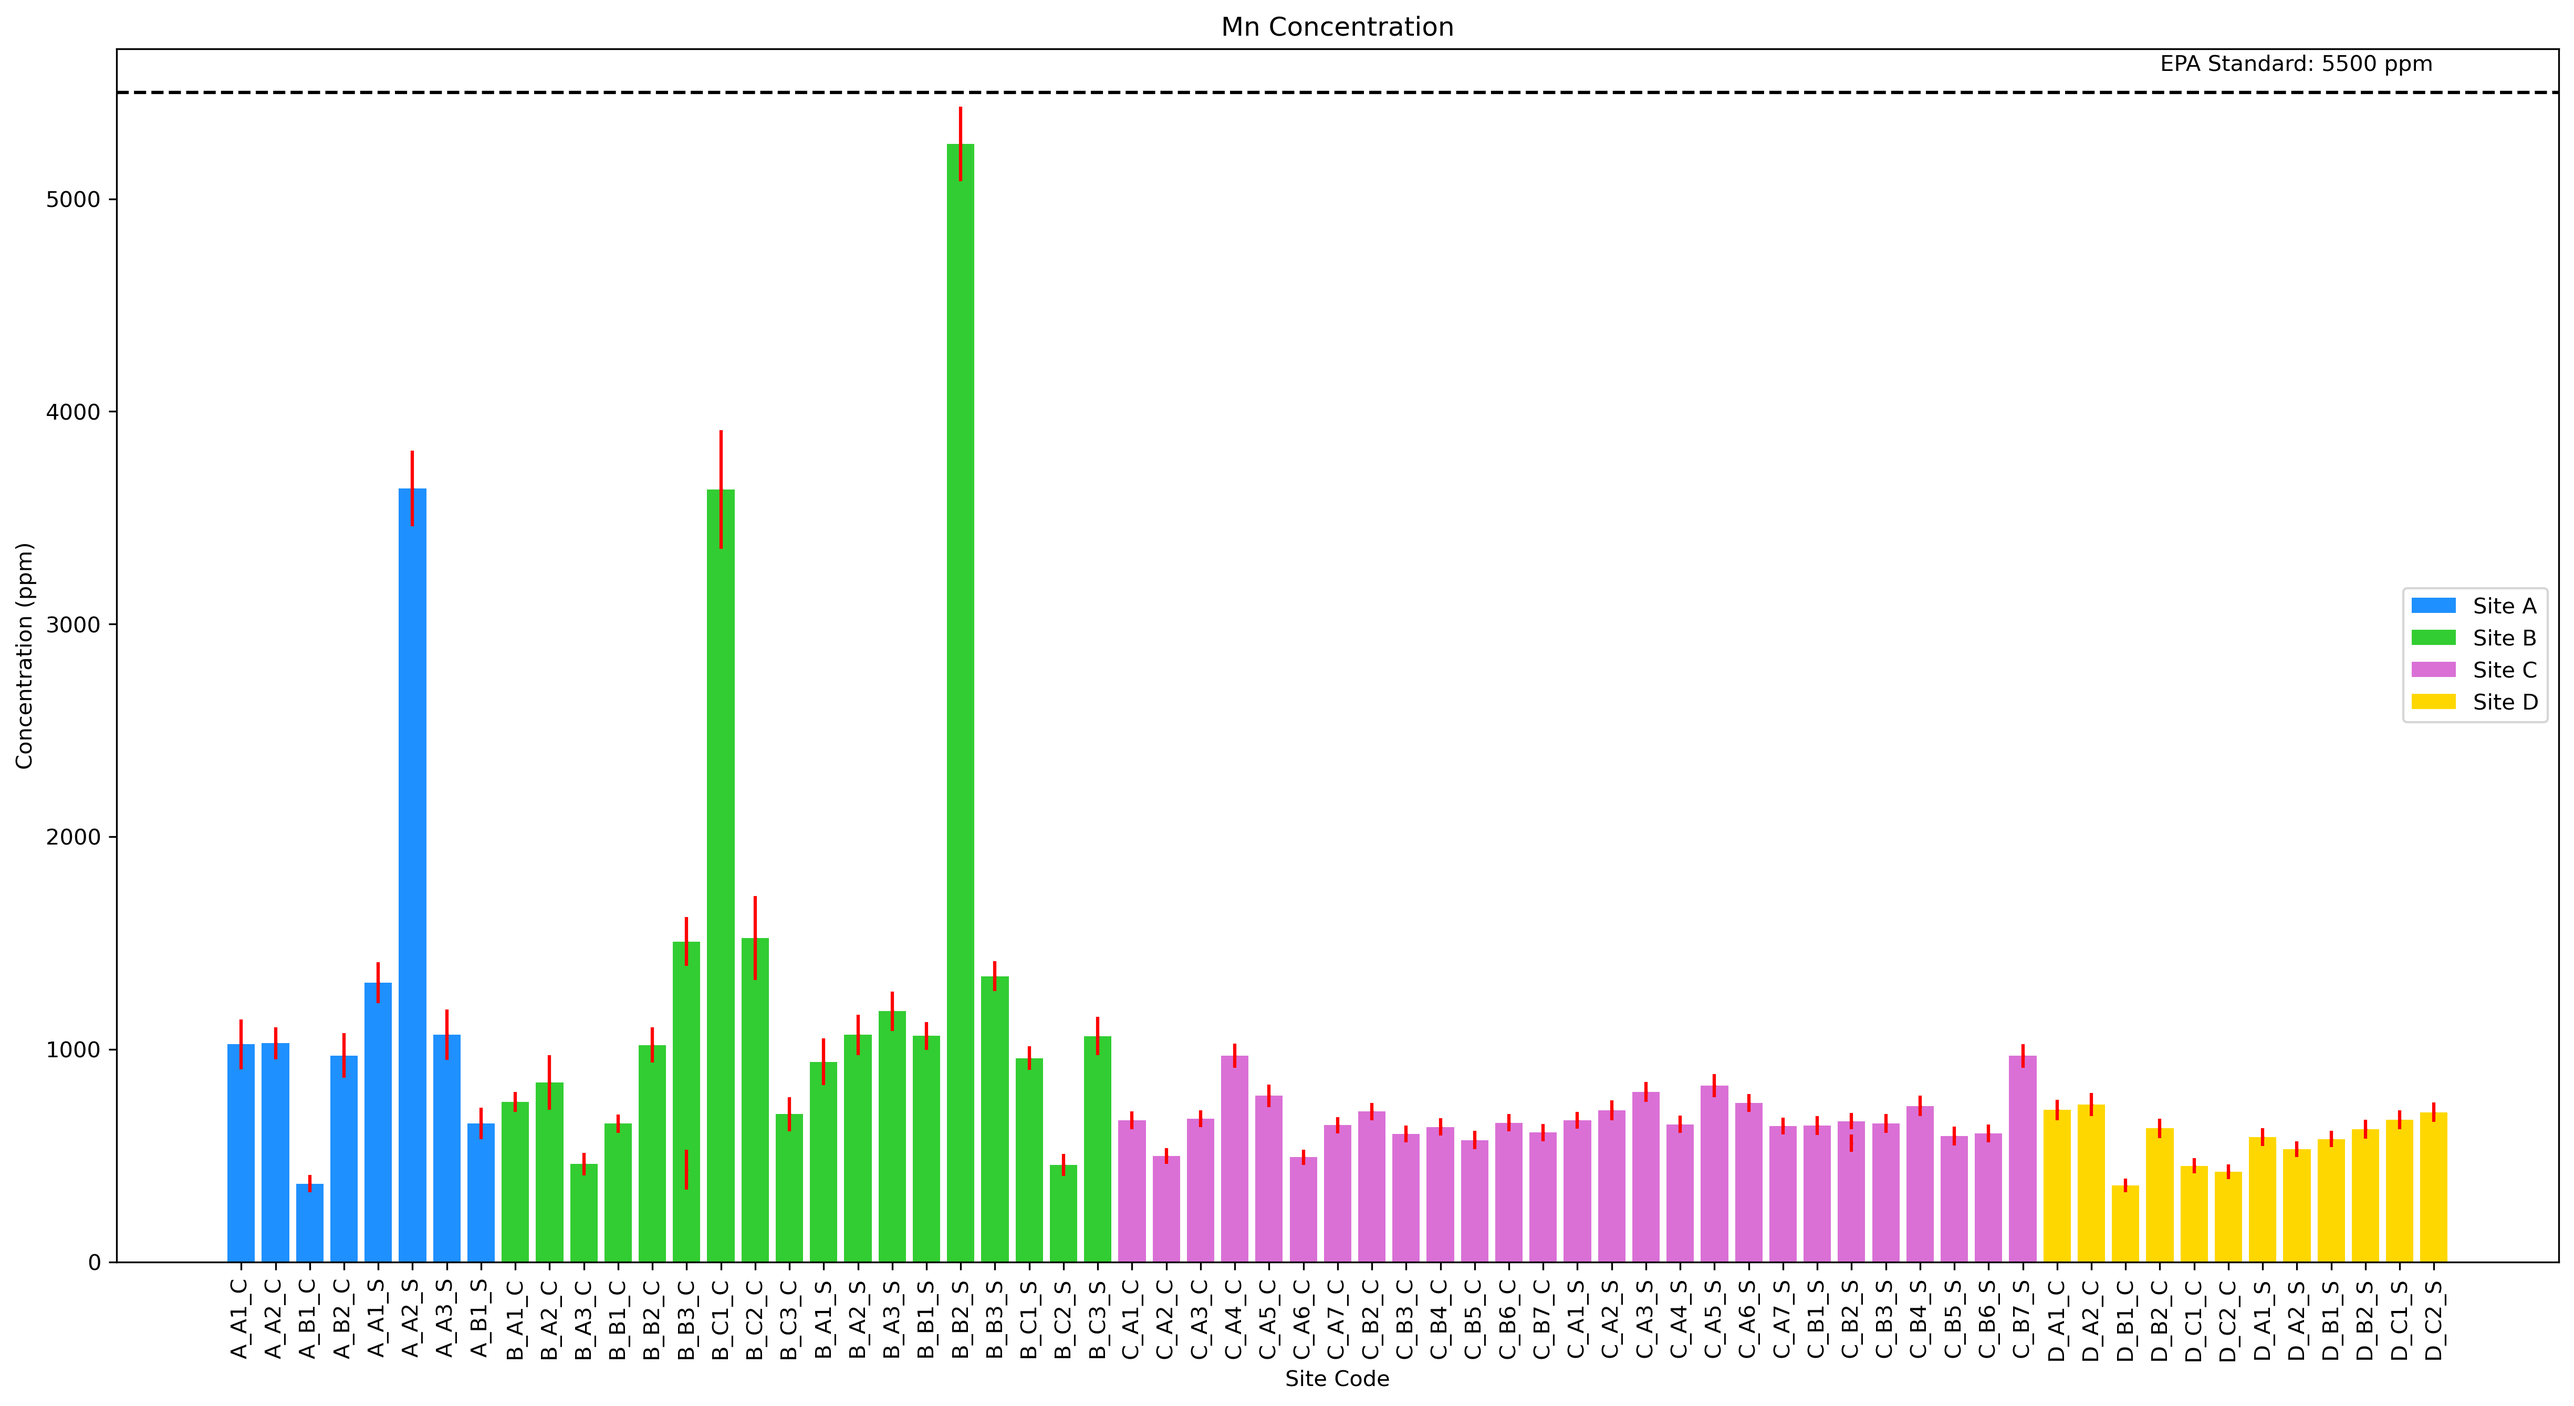
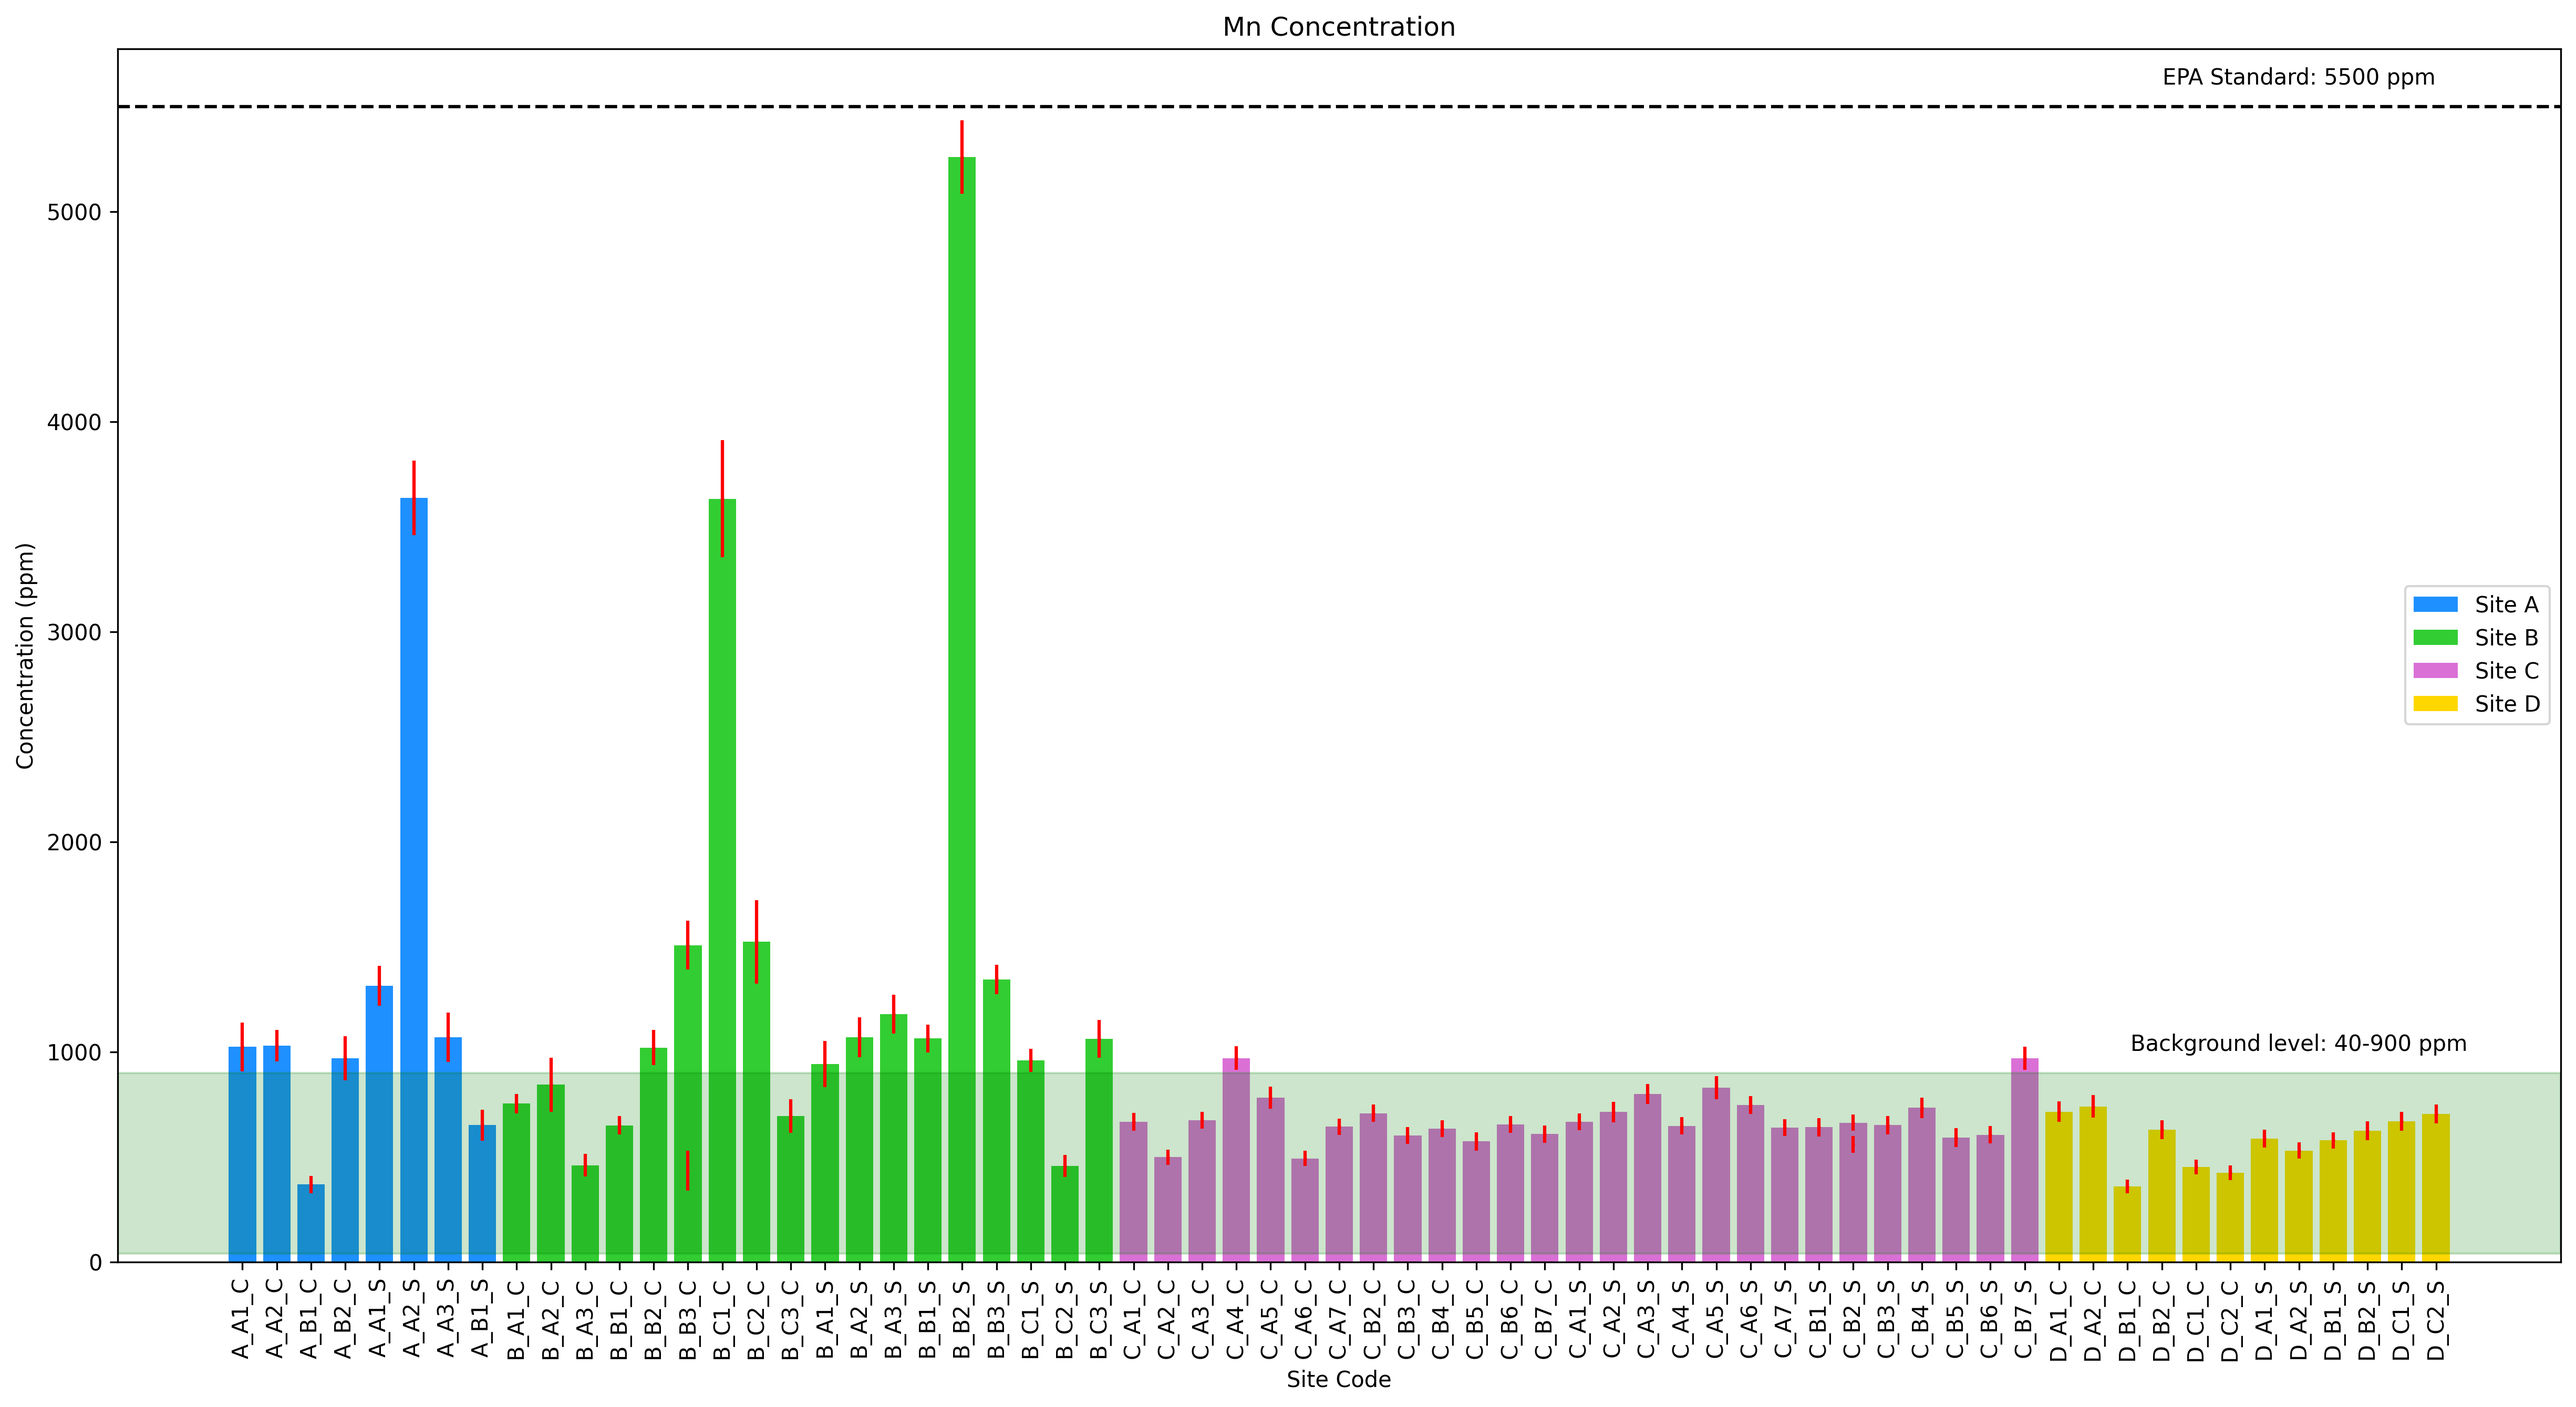
Highlight background levels on Mn plot

diff --git a/03-soil/analysis.py b/03-soil/analysis.py
@@ -59,6 +59,11 @@ def generate_plots(df: pd.DataFrame, debug=False):
             plt.axhline(y=lim, color="k", linestyle="--")
             plt.annotate(f"EPA Standard: {lim} ppm", (60, lim), textcoords="offset points", xytext=(0, 10), ha='center')
 
+        # If manganese, highlight and label the background levels
+        if p == 'Mn Concentration':
+            plt.axhspan(40, 900, color='green', alpha=0.2)
+            plt.annotate(f"Background level: 40-900 ppm", (60, 900), textcoords="offset points", xytext=(0, 10), ha='center')
+
         # Style plot
         plt.title(str(p))
         plt.xlabel("Site Code")
